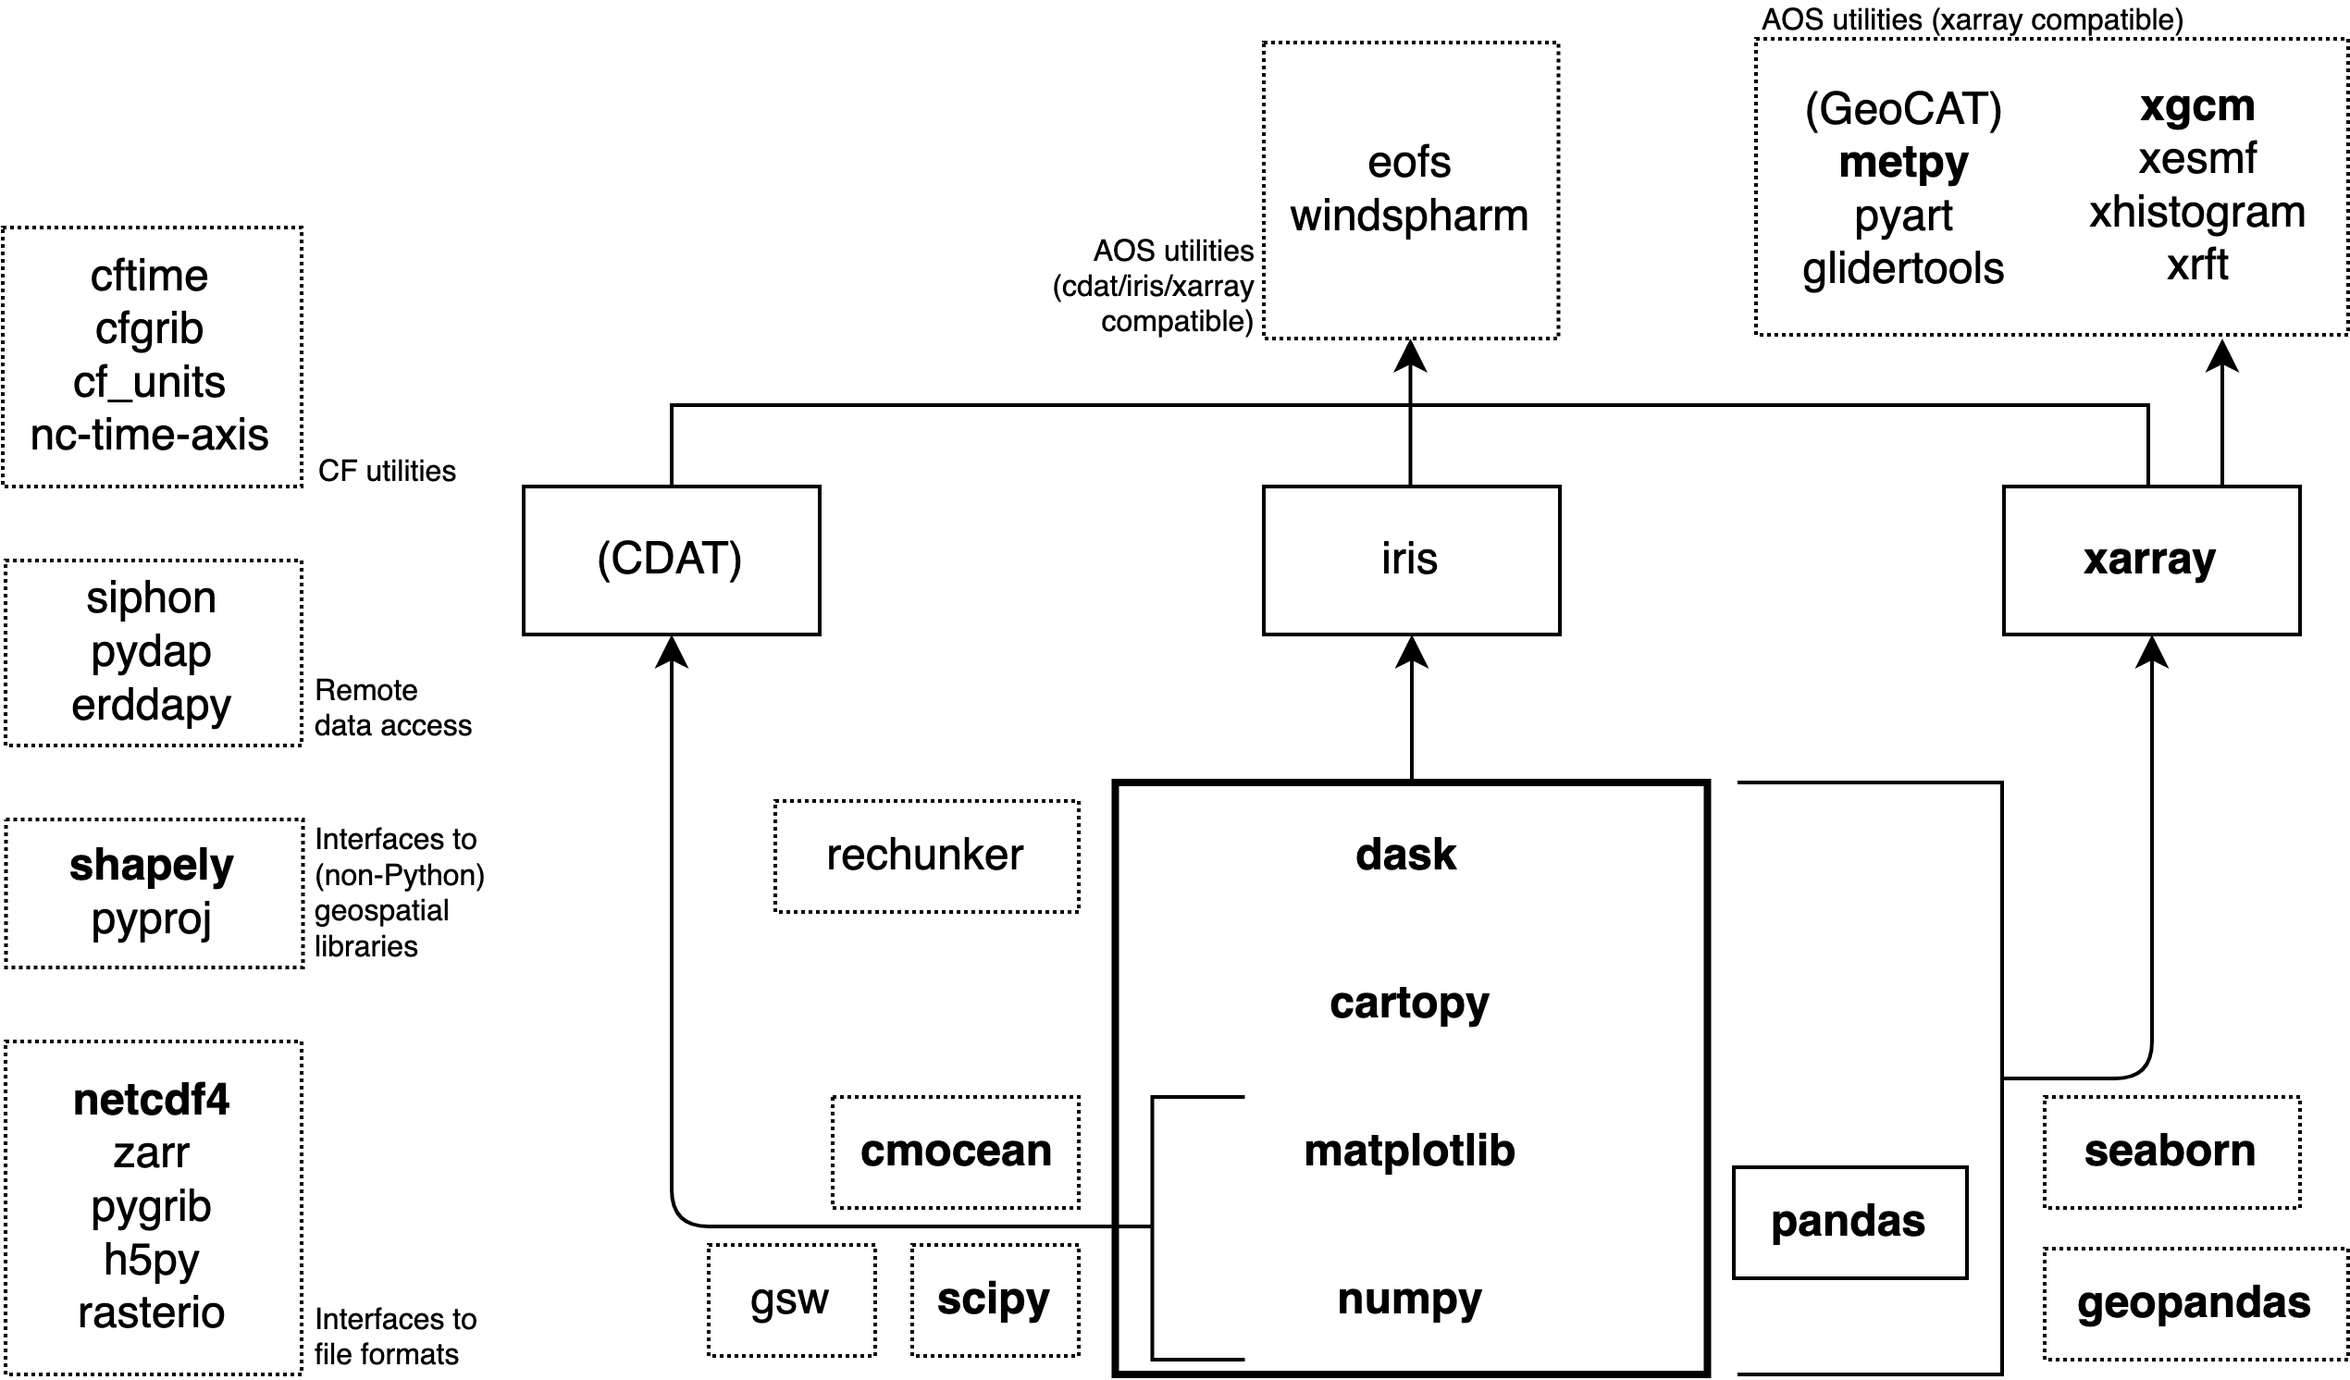
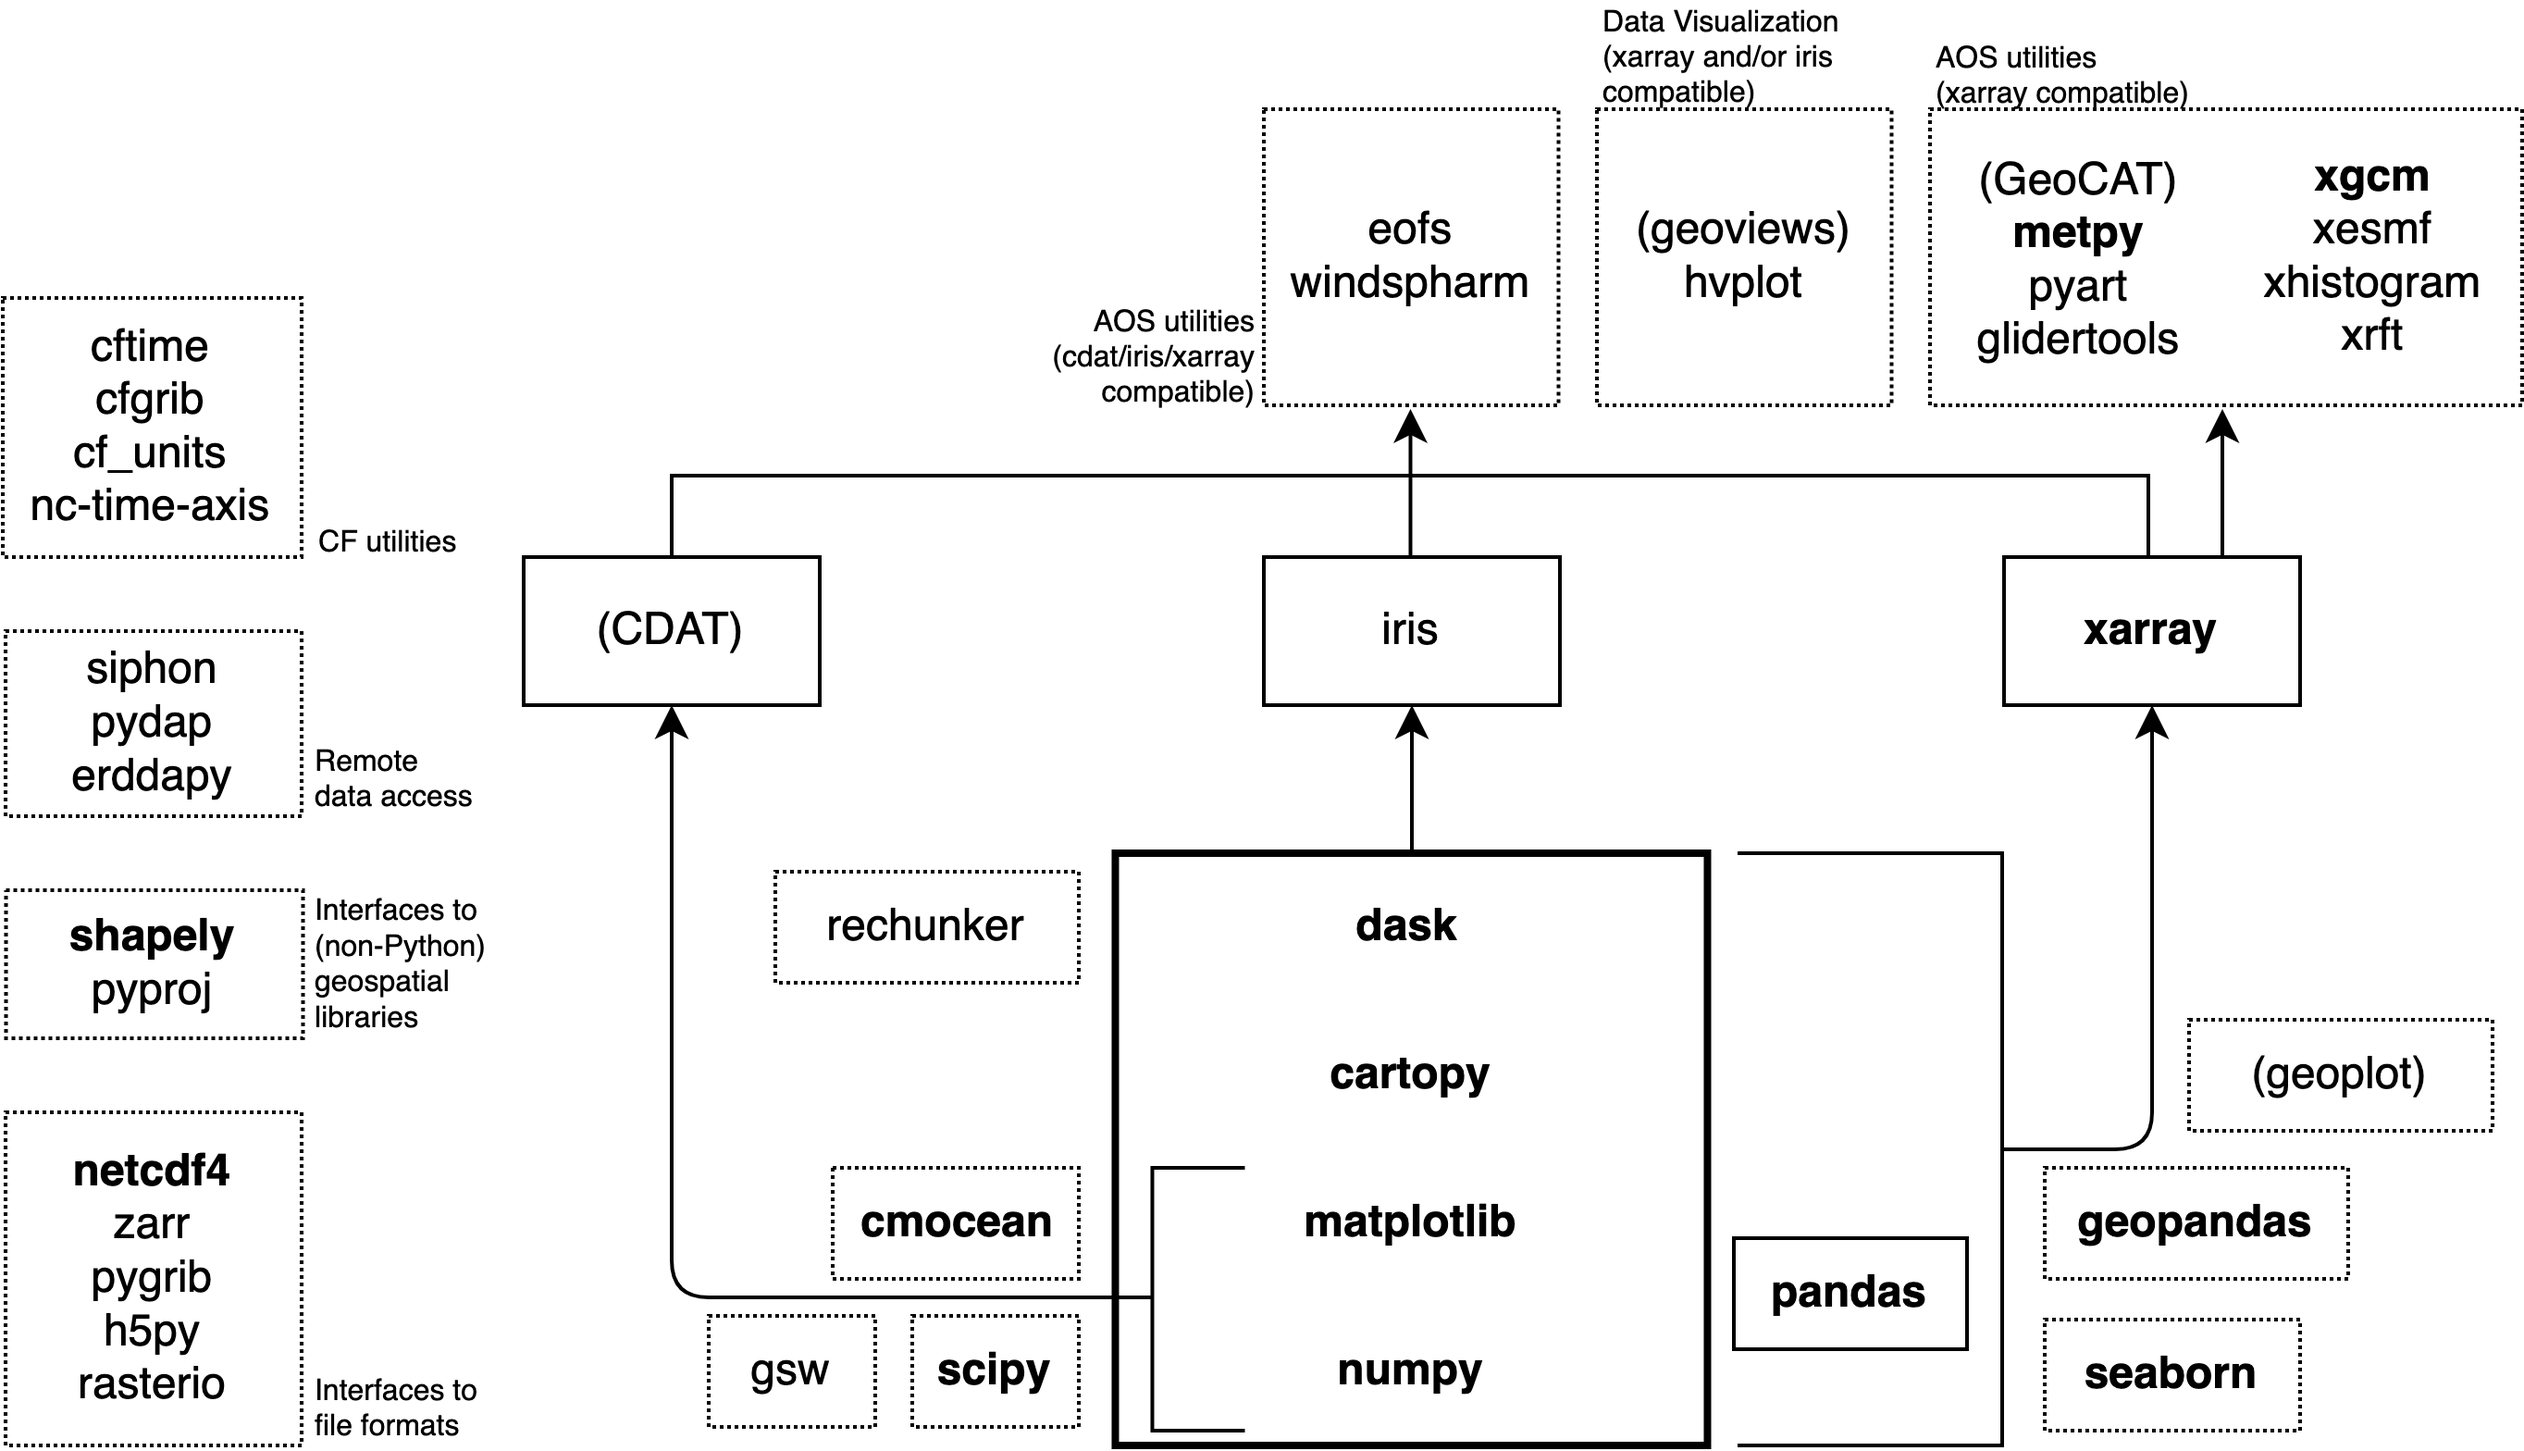
Update census stack image

diff --git a/census/summary.md b/census/summary.md
@@ -23,12 +23,7 @@ A clear inference from the survey is that for many respondents data processing w
 <p align="left">
 <img src="../images/census_main_stack.png" width="800">
 </p>
-TODO: Caption
-
-<p align="left">
-<img src="../images/census_vis_stack.png" width="500">
-</p>
-TODO: Caption
+Figure 1: The PyAOS software stack, as reported by survey respondents.
 
 
 # Detailed results 
